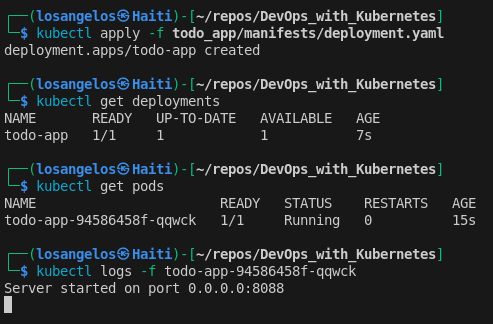
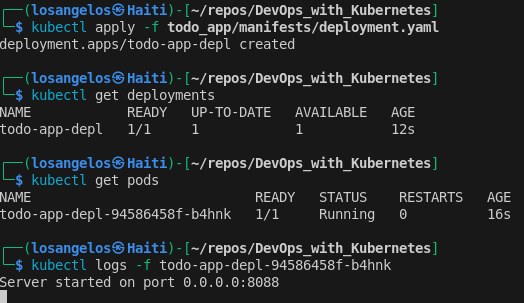
Update Exercise 1.04

diff --git a/Part1/Exercise_1.04/README.md b/Part1/Exercise_1.04/README.md
@@ -12,7 +12,7 @@
     apiVersion: apps/v1
     kind: Deployment
     metadata:
-    name: todo-app
+    name: todo-app-depl
     spec:
     replicas: 1
     selector:
